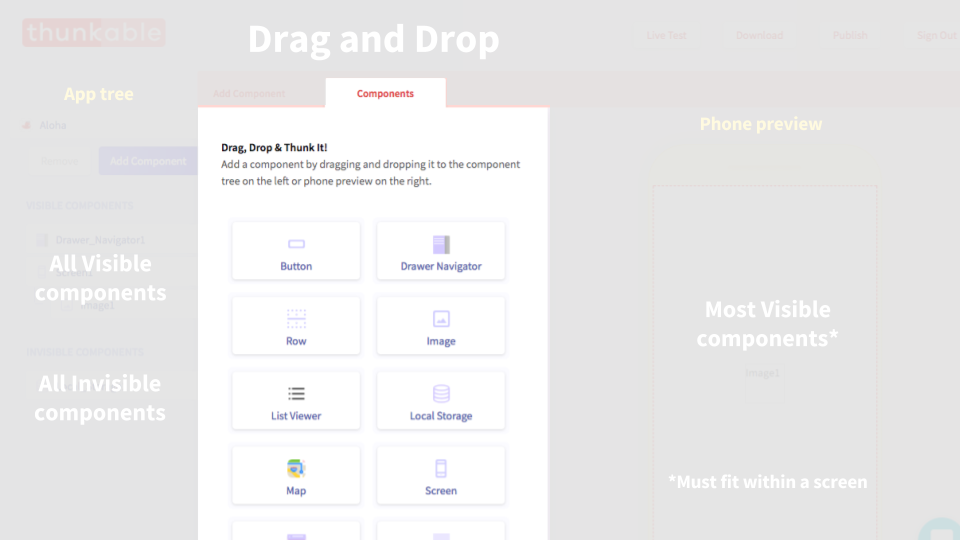
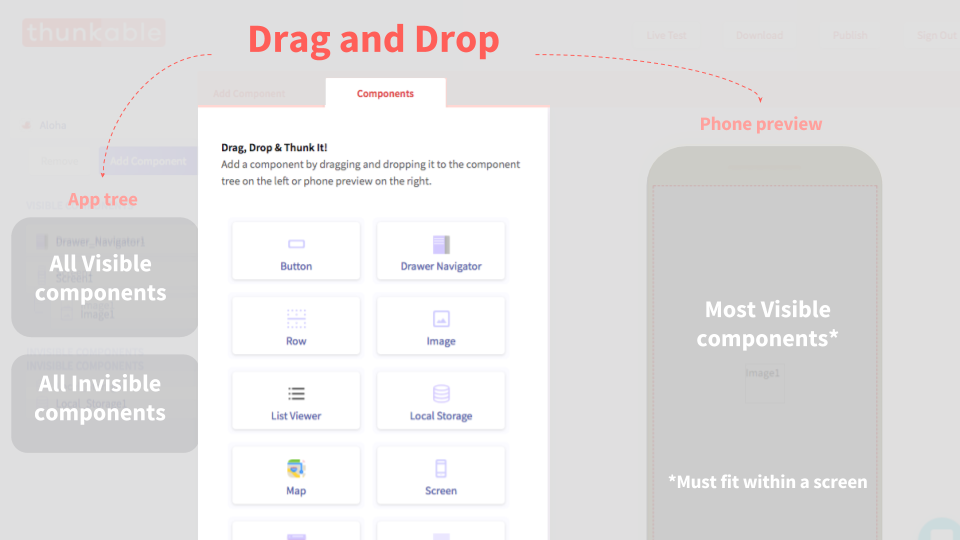
Updates ios/create.md
Auto commit by GitBook Editor

diff --git a/ios/create.md b/ios/create.md
@@ -33,9 +33,9 @@ Right now we only accept logging in with a Google account but expect to add more
 
 #### ![](/assets/ios/drag-drop.gif)![](/assets/ios-drag-drop.gif)
 
-#### **You can drag all components to the left to the App Tree and some components \(those that are visible within a Screen\) to the Gold Phone screen on the right**![](/assets/drag-drop-fig-1.png)
+#### **You can drag all components to the left to the App Tree and most visible components\* to the Gold Phone screen on the right**![](/assets/drag-drop-fig-1.png)
 
-#### ![](/assets/drag-drop-fig-1.png)![](/assets/ios-drag-drop-fig-1.png)
+#### ![](/assets/ios-drag-drop-fig-1.png)![](/assets/drag-drop-fig-1.png)![](/assets/ios-drag-drop-fig-1.png)
 
 | Category | Sub-category | How to Add | Components |
 | :--- | :--- | :--- | :--- |
